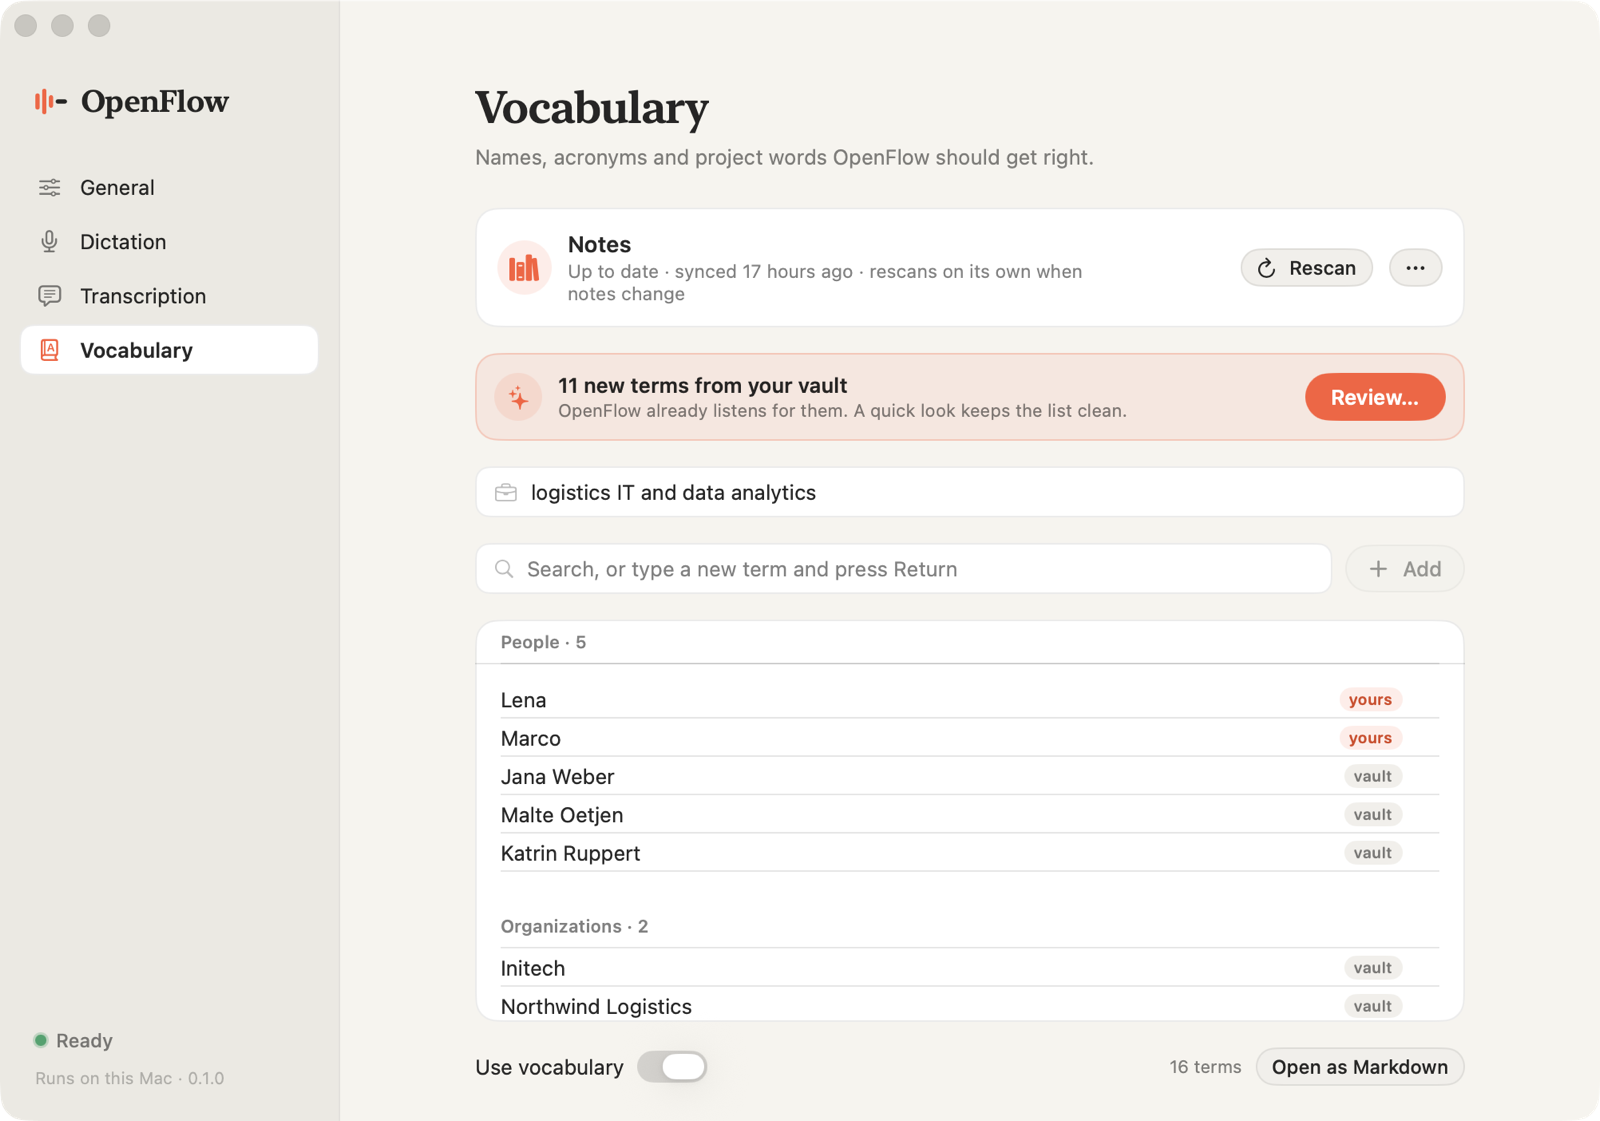
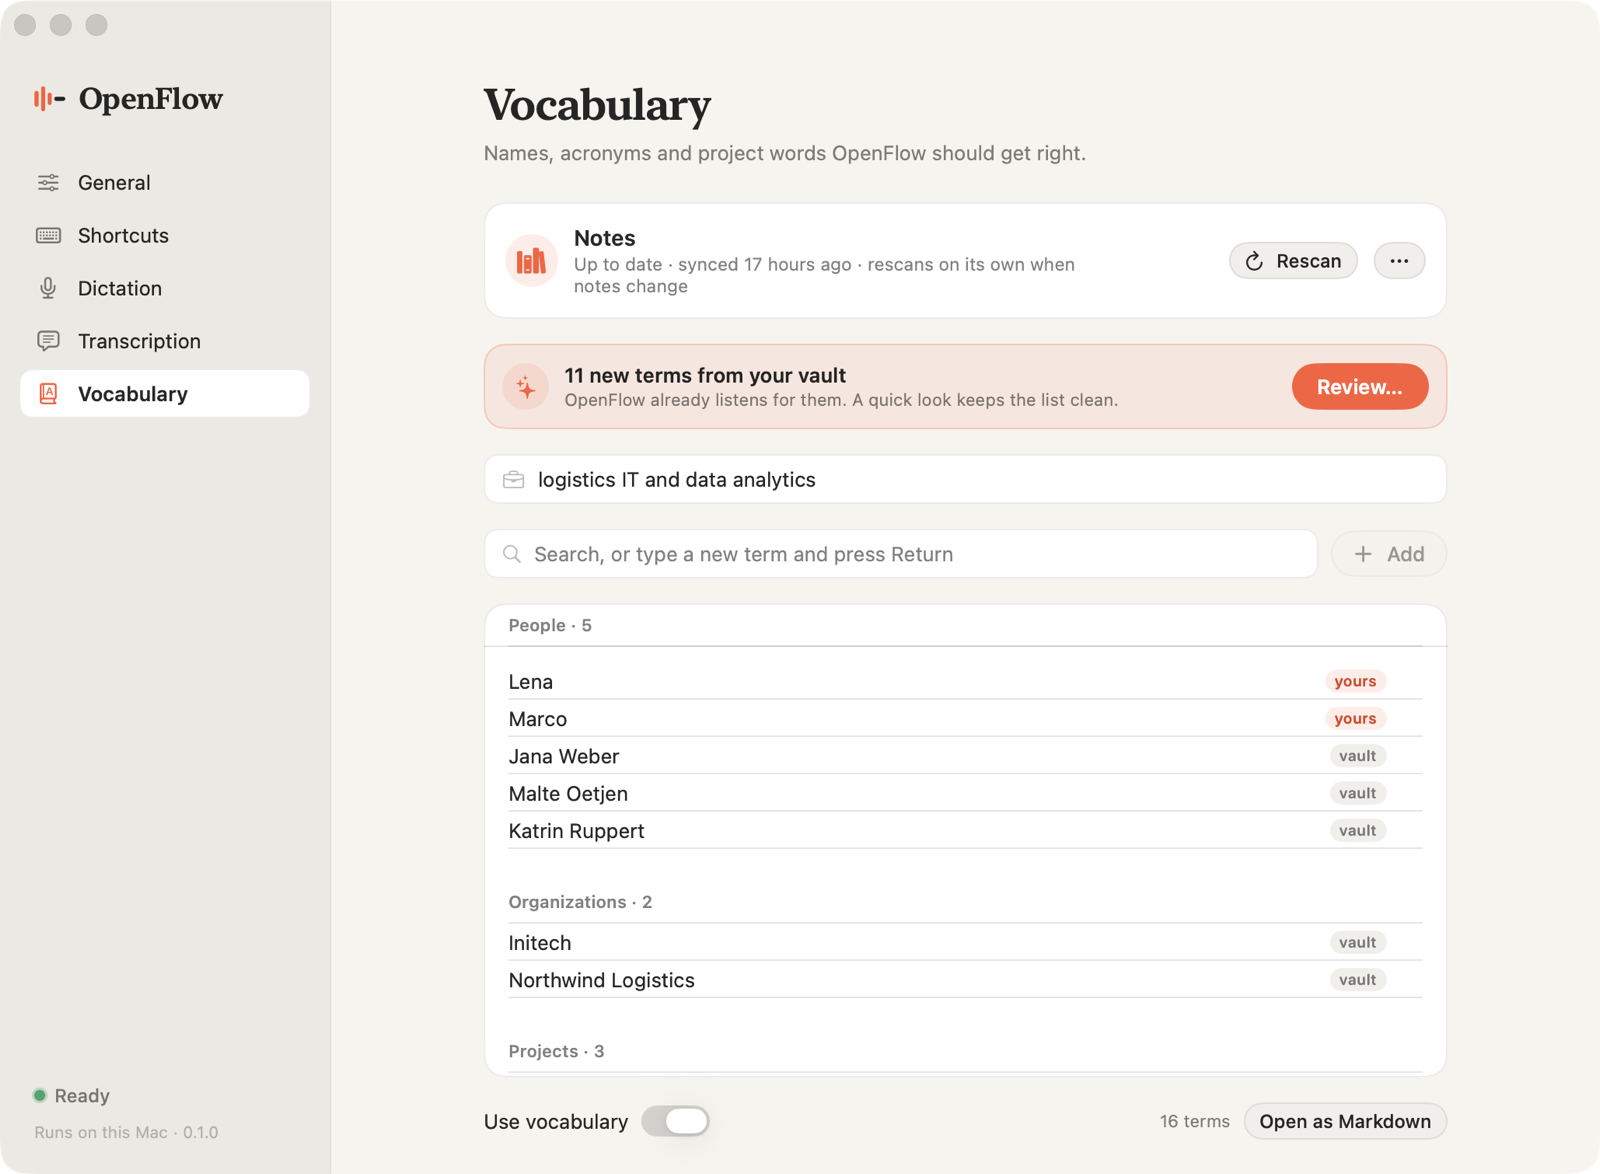
Shortcuts get their own page; the setup guide offers a vault
- Shortcuts moved from General to a page of their own (⌘2); General
  keeps the totals, the how-to card, the speech model and app settings
- Setup guide: an optional "Your words" step before "Try it" lists the
  Obsidian vaults it finds and any other folder; Skip until one is
  connected. Connecting starts the scan without opening the window.
- README: guide steps, General and Shortcuts; screenshots retaken
  (General, Vocabulary, setup guide) with made-up content

diff --git a/app/Sources/OpenFlow/OnboardingWindow.swift b/app/Sources/OpenFlow/OnboardingWindow.swift
@@ -2,13 +2,14 @@ import AppKit
 import SwiftUI
 
 /// The first-run guide: what OpenFlow does, the permissions it needs (one at a time, each with
-/// the reason), the dictation key, and a field to try it. Opens on first launch and from
-/// Settings → General → Setup Guide.
+/// the reason), the dictation key, optionally a vault to learn words from, and a field to try it.
+/// Opens on first launch and from Settings → General → Setup Guide.
 final class OnboardingWindow {
     private let window: NSWindow
     private var closeObserver: NSObjectProtocol?
 
-    init(model: AppModel, step: Int = 0, applyShortcuts: @escaping () -> Void) {
+    init(model: AppModel, step: Int = 0, applyShortcuts: @escaping () -> Void,
+         connectVault: @escaping (URL) -> Void, pickVaultFolder: @escaping () -> URL?) {
         window = NSWindow(
             contentRect: NSRect(x: 0, y: 0, width: 640, height: 580),
             styleMask: [.titled, .closable, .fullSizeContentView],
@@ -21,7 +22,8 @@ final class OnboardingWindow {
         window.backgroundColor = Brand.nsCanvas
         window.isReleasedWhenClosed = false
         let host = NSHostingView(rootView: OnboardingView(
-            model: model, step: step, applyShortcuts: applyShortcuts, onDone: { [weak self] in self?.window.close() }
+            model: model, step: step, applyShortcuts: applyShortcuts, connectVault: connectVault,
+            pickVaultFolder: pickVaultFolder, onDone: { [weak self] in self?.window.close() }
         ))
         host.sizingOptions = []
         window.contentView = host
@@ -49,16 +51,22 @@ final class OnboardingWindow {
 private struct OnboardingView: View {
     @ObservedObject var model: AppModel
     var applyShortcuts: () -> Void
+    var connectVault: (URL) -> Void
+    var pickVaultFolder: () -> URL?
     var onDone: () -> Void
     @State private var step: Int
+    @State private var vault = Settings.vault
 
-    init(model: AppModel, step: Int, applyShortcuts: @escaping () -> Void, onDone: @escaping () -> Void) {
+    init(model: AppModel, step: Int, applyShortcuts: @escaping () -> Void, connectVault: @escaping (URL) -> Void,
+         pickVaultFolder: @escaping () -> URL?, onDone: @escaping () -> Void) {
         self.model = model
         self.applyShortcuts = applyShortcuts
+        self.connectVault = connectVault
+        self.pickVaultFolder = pickVaultFolder
         self.onDone = onDone
         _step = State(initialValue: step)
     }
-    private let steps = ["Welcome", "Permissions", "Shortcut", "Try it"]
+    private let steps = ["Welcome", "Permissions", "Shortcut", "Your words", "Try it"]
 
     var body: some View {
         VStack(spacing: 0) {
@@ -67,6 +75,7 @@ private struct OnboardingView: View {
                 case 0: welcome
                 case 1: PermissionsStep(model: model)
                 case 2: ShortcutStep(applyShortcuts: applyShortcuts)
+                case 3: VaultStep(connected: $vault, connectVault: connectVault, pickVaultFolder: pickVaultFolder)
                 default: TryStep(model: model)
                 }
             }
@@ -86,7 +95,7 @@ private struct OnboardingView: View {
                     .padding(.leading, 4)
                 Spacer()
                 if step > 0 { Button("Back") { step -= 1 }.buttonStyle(.quiet) }
-                Button(step == steps.count - 1 ? "Done" : step == 0 ? "Get Started" : "Continue") {
+                Button(step == steps.count - 1 ? "Done" : step == 0 ? "Get Started" : step == 3 && vault == nil ? "Skip" : "Continue") {
                     if step == steps.count - 1 { onDone() } else { step += 1 }
                 }
                 .keyboardShortcut(.defaultAction)
@@ -252,9 +261,64 @@ private struct ShortcutStep: View {
                       systemImage: "info.circle")
                     .font(.system(size: 11.5)).foregroundStyle(.secondary)
             }
-            Text("You can change this and the other shortcuts any time in Settings → General.")
+            Text("You can change this and the other shortcuts any time in Settings → Shortcuts.")
                 .font(.system(size: 11.5)).foregroundStyle(.tertiary)
         }
+    }
+}
+
+/// Optional: an Obsidian vault (or any Markdown folder) to learn names and acronyms from.
+private struct VaultStep: View {
+    @Binding var connected: URL?
+    var connectVault: (URL) -> Void
+    var pickVaultFolder: () -> URL?
+    private let known = VaultSweeper.knownVaults()
+
+    var body: some View {
+        VStack(alignment: .leading, spacing: 14) {
+            StepTitle(title: "Your words",
+                      text: "Optional. Connect your Obsidian vault and OpenFlow learns the names, acronyms and project "
+                        + "words in your notes, so it spells them right. The vault is only read; nothing leaves your Mac.")
+            SettingsGroup {
+                ForEach(known, id: \.self) { v in
+                    row(v.name, symbol: connected == v.url ? "largecircle.fill.circle" : "circle",
+                        selected: connected == v.url) { connect(v.url) }
+                }
+                row(known.isEmpty ? "Choose a folder…" : "Another folder…", symbol: "folder", selected: false) {
+                    if let url = pickVaultFolder() { connect(url) }
+                }
+            }
+            if let connected {
+                Label("Connected to \(VaultSweeper.name(of: connected)). The first scan runs in the background and "
+                      + "can take a few minutes; the terms show up in Settings → Vocabulary.", systemImage: "checkmark.circle.fill")
+                    .font(.system(size: 11.5)).foregroundStyle(.secondary)
+            } else {
+                Text("No Obsidian? Skip this. Any folder of Markdown notes works too, now or later in Settings → Vocabulary.")
+                    .font(.system(size: 11.5)).foregroundStyle(.tertiary)
+            }
+        }
+    }
+
+    private func connect(_ url: URL) {
+        guard url != connected else { return }
+        connectVault(url)
+        connected = url
+    }
+
+    private func row(_ title: String, symbol: String, selected: Bool, action: @escaping () -> Void) -> some View {
+        Button(action: action) {
+            HStack(spacing: 12) {
+                Image(systemName: symbol)
+                    .foregroundStyle(selected ? AnyShapeStyle(Brand.ember) : AnyShapeStyle(.tertiary))
+                Text(title).font(.system(size: 13, weight: .medium))
+                Spacer()
+            }
+            .padding(.horizontal, 14)
+            .frame(height: 38)
+            .background(selected ? Brand.ember.opacity(0.07) : .clear)
+            .contentShape(Rectangle())
+        }
+        .buttonStyle(.plain)
     }
 }
 

diff --git a/app/Sources/OpenFlow/MainWindow.swift b/app/Sources/OpenFlow/MainWindow.swift
@@ -5,11 +5,12 @@ import SwiftUI
 /// State the OpenFlow window shows; the app delegate keeps it current.
 final class AppModel: ObservableObject {
     enum Page: String, CaseIterable, Identifiable {
-        case general = "General", dictation = "Dictation", transcription = "Transcription", vocabulary = "Vocabulary"
+        case general = "General", shortcuts = "Shortcuts", dictation = "Dictation", transcription = "Transcription", vocabulary = "Vocabulary"
         var id: String { rawValue }
         var symbol: String {
             switch self {
             case .general: return "slider.horizontal.3"
+            case .shortcuts: return "keyboard"
             case .dictation: return "mic"
             case .transcription: return "text.bubble"
             case .vocabulary: return "character.book.closed"
@@ -131,6 +132,7 @@ extension AppModel.Page {
     var subtitle: String {
         switch self {
         case .general: return "How to talk to OpenFlow, and the app itself."
+        case .shortcuts: return "The keys for dictating, transcribing and cancelling."
         case .dictation: return "Hold a key, talk, let go: the text lands where your cursor is."
         case .transcription: return "Meetings as Markdown, written while you talk: you and the other side."
         case .vocabulary: return "Names, acronyms and project words OpenFlow should get right."
@@ -161,6 +163,7 @@ private struct MainView: View {
             Group {
                 switch model.page {
                 case .general: PageScroll(page: .general) { GeneralPage(model: model, actions: actions) }
+                case .shortcuts: PageScroll(page: .shortcuts) { ShortcutsGroup(model: model, actions: actions) }
                 case .dictation: PageScroll(page: .dictation) { DictationPage(actions: actions) }
                 case .transcription: PageScroll(page: .transcription) { TranscriptionPage(model: model, actions: actions) }
                 case .vocabulary: VocabularyPage(store: store, sweeper: sweeper, actions: actions.vocabulary)
@@ -275,7 +278,6 @@ private struct GeneralPage: View {
         VStack(alignment: .leading, spacing: 26) {
             StatsCard(model: model)
             HowToCard(model: model)
-            ShortcutsGroup(model: model, actions: actions)
             SettingsGroup(title: "Speech model") {
                 SettingRow(title: "Recognizer", detail: "NVIDIA Nemotron, on this Mac's GPU. Nothing goes to the cloud.") {
                     HStack(spacing: 8) {
@@ -439,7 +441,6 @@ private struct ShortcutsGroup: View {
 
     var body: some View {
         SettingsGroup(
-            title: "Shortcuts",
             footer: model.hotkeyActive ? "Click a shortcut, then press the keys. Combinations need ⌘, ⌥ or ⌃."
                 : "Shortcuts don't work yet: allow Input Monitoring and Accessibility (Setup guide), then restart OpenFlow.",
             footerStyle: model.hotkeyActive ? nil : Brand.emberText

diff --git a/app/Sources/OpenFlow/main.swift b/app/Sources/OpenFlow/main.swift
@@ -55,7 +55,12 @@ final class AppDelegate: NSObject, NSApplicationDelegate, NSMenuDelegate, UNUser
         )
     ))
     private var scanWatch: AnyCancellable?
-    private lazy var onboarding = OnboardingWindow(model: appModel) { [weak self] in self?.applyShortcuts() }
+    private lazy var onboarding = OnboardingWindow(
+        model: appModel,
+        applyShortcuts: { [weak self] in self?.applyShortcuts() },
+        connectVault: { [weak self] in self?.startVault($0) },
+        pickVaultFolder: { [weak self] in self?.pickVaultFolder() }
+    )
 
     /// A vault scan pauses whenever OpenFlow is listening, so it never slows recognition down.
     private var state = State.idle {
@@ -558,12 +563,21 @@ final class AppDelegate: NSObject, NSApplicationDelegate, NSMenuDelegate, UNUser
     }
 
     private func connectVault(_ url: URL) {
-        vocabulary.ensureFile()
-        sweeper.connect(url)
+        startVault(url)
         mainWindow.show(.vocabulary)  // the scan's progress shows there
     }
 
+    /// Connects without opening the window, for the setup guide.
+    private func startVault(_ url: URL) {
+        vocabulary.ensureFile()
+        sweeper.connect(url)
+    }
+
     private func chooseVaultFolder() {
+        pickVaultFolder().map(connectVault)
+    }
+
+    private func pickVaultFolder() -> URL? {
         let panel = NSOpenPanel()
         panel.title = "Connect a Vault"
         panel.message = "Choose an Obsidian vault or any folder of Markdown notes. OpenFlow only reads it."
@@ -571,8 +585,8 @@ final class AppDelegate: NSObject, NSApplicationDelegate, NSMenuDelegate, UNUser
         panel.canChooseDirectories = true
         panel.canChooseFiles = false
         NSApp.activate()
-        guard panel.runModal() == .OK, let url = panel.url else { return }
-        connectVault(url)
+        guard panel.runModal() == .OK, let url = panel.url else { return nil }
+        return url
     }
 
     private func setUseVocabulary(_ on: Bool) {

diff --git a/app/Sources/OpenFlow/Demo.swift b/app/Sources/OpenFlow/Demo.swift
@@ -118,7 +118,8 @@ func runOnboardingDemo(step: Int) {
     Settings.registerDefaults()
     let model = AppModel()
     model.status = "ASR: ready"
-    let window = OnboardingWindow(model: model, step: step) {}
+    let window = OnboardingWindow(model: model, step: step, applyShortcuts: {}, connectVault: { _ in },
+                                  pickVaultFolder: { nil })
     retainedOnboardingDemo = window
     window.show()
 }

diff --git a/README.md b/README.md
@@ -54,7 +54,9 @@ On first launch a **setup guide** walks you through it:
    to paste, Input Monitoring for the shortcut. System Audio is optional, for meeting
    transcripts. Each one turns green once you allow it.
 2. **Your dictation key**: right ⌥ unless you pick another.
-3. **Try it** in a text field right there.
+3. **Your words**, optional: connect an Obsidian vault (or any folder of Markdown notes) so names
+   and acronyms from your notes come out right. Skip it if you don't use one.
+4. **Try it** in a text field right there.
 
 You can open the guide again any time: Settings → General → Setup guide.
 
@@ -129,8 +131,8 @@ with ordinary sentences unaffected.
 </p>
 
 - **General:** what you've done so far (words dictated, meeting time transcribed, typing time saved;
-  only the totals are kept, never the text), your shortcuts (dictation key, transcription,
-  hands-free, cancel), sounds, launch at login.
+  only the totals are kept, never the text), sounds, launch at login.
+- **Shortcuts:** the dictation key, transcription, hands-free and cancel.
 - **Dictation:** language (automatic, Deutsch or English) and microphone. "Automatic" prefers the
   built-in mic over a Bluetooth headset, which would otherwise switch to low-quality call audio.
 - **Transcription:** the transcripts folder and echo removal for speakers.

diff --git a/docs/DEVELOPMENT.md b/docs/DEVELOPMENT.md
@@ -135,7 +135,7 @@ offscreen renders, never from a screen region, which can catch whatever else is 
 | `cd asr && uv run sweep.py --vault ~/notes --out /tmp/Vocabulary.md` | Learn a vocabulary from a vault (`--no-llm`: rules only) |
 | `cd asr && uv run bench_vocab.py [--vocabulary FILE] [--show]` | Term recall and damage to ordinary speech, boost off vs. on |
 | `cd asr && uv run bench_llm.py mlx:<hf id> ollama:<tag> [--task sweep --vault … --gold …]` | Compare LLMs on transcript polish and vault extraction, with the production prompts |
-| `build/OpenFlow.app/Contents/MacOS/OpenFlow --onboarding-demo [STEP]` | The setup guide, from step 0–3 |
+| `build/OpenFlow.app/Contents/MacOS/OpenFlow --onboarding-demo [STEP]` | The setup guide, from step 0–4 |
 | `build/OpenFlow.app/Contents/MacOS/OpenFlow --vocabulary-demo [FILE]` | The OpenFlow window on a copy of a vocabulary file (`OPENFLOW_DEMO_PAGE=General` for another page) |
 | `swift scripts/make-icon.swift app/Resources/AppIcon.icns` | Regenerate the app icon |
 | `swift scripts/make-banner.swift docs/images/banner.png` | Regenerate the README banner |
